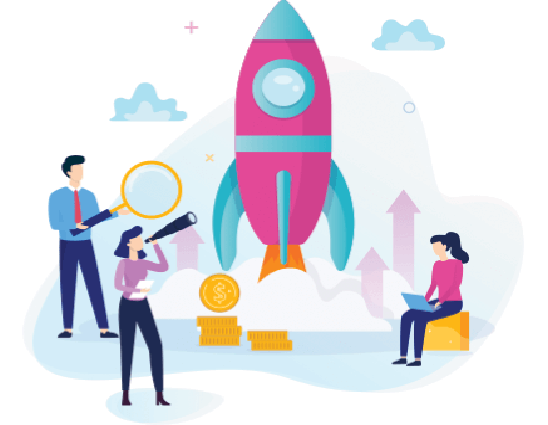
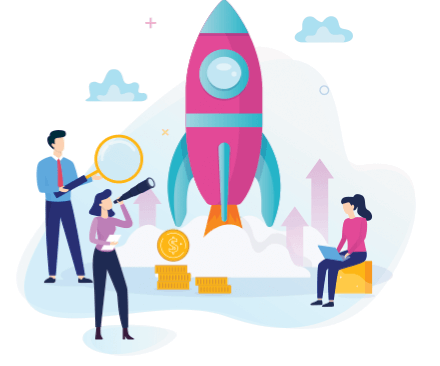
landing page

diff --git a/assets/css/section.css b/assets/css/section.css
@@ -92,7 +92,7 @@
 
     .pink-section-small img{
         width: 80%;
-        height: 50%;
+        height: 80%;
         margin: 5px auto;
     }
 
@@ -164,7 +164,7 @@
 }
 .pink-section-background{
     background-position: right;
-    background-image: url('../image/image-sect-3.png');
+    background-image: url('../image/image-bg.png');
     background-repeat: no-repeat;
     background-size: cover;
     border-radius: 50px;
@@ -243,3 +243,11 @@
 }
 
 
+@media screen and (max-width: 394px) {
+    .pink-section-small img{
+        border-radius: 50%;
+        height: 200px;
+        width: 200px;
+        margin: 5px auto;
+    }
+}

diff --git a/assets/css/swiper.css b/assets/css/swiper.css
@@ -1,12 +1,12 @@
 .swiper {
-    width: 50%;
+    width: 90%;
     display: block;
   }
 
   .swiper-slide {
     text-align: center;
     font-size: 18px;
-    width:70%;
+    width:100%;
     transition: 0.5s;
     /* Center slide text vertically */
     display: -webkit-box;
